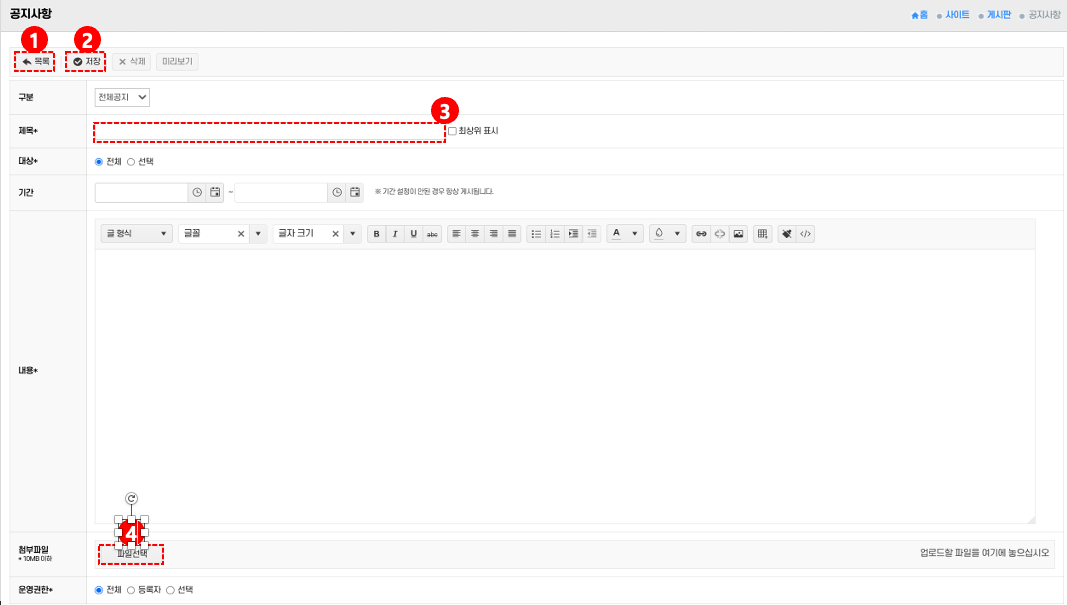
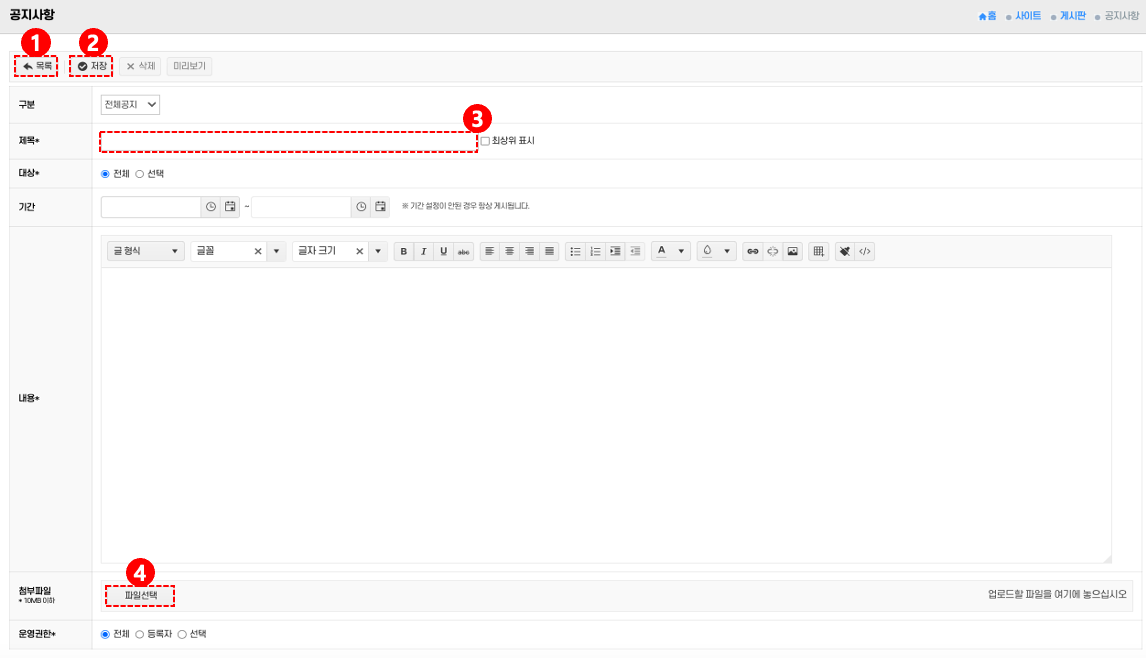
모달메뉴 테스트

diff --git a/content/3.사이트.md b/content/3.사이트.md
@@ -6,96 +6,128 @@ cssclass: app-cards
 
 ---
 #### 1. 메뉴관리
-- [![](https://placehold.co/80x80)](사이트-메뉴관리.md)  
+- [![](../_etc/icons/메뉴관리.gif)](사이트-메뉴관리.md)  
   <span class="card-label">사이트</span>  
   <span class="card-desc">상단/사이드 메뉴 트리 편집</span>
 
 #### 2. 팝업
-- [![](https://placehold.co/80x80)](팝업.md)  
+- [![](../_etc/icons/자동알림.gif)](팝업.md)  
   <span class="card-label">운영</span>  
   <span class="card-desc">팝업 등록 · 기간/노출 설정</span>
 
 #### 3. 배너
-- [![](https://placehold.co/80x80)](배너.md)  
+- [![](../_etc/icons/배너.gif)](배너.md)  
   <span class="card-label">운영</span>  
   <span class="card-desc">배너 등록 · 순서/위치 관리</span>
 
 #### 4. 게시판
-- [![](https://placehold.co/80x80)](게시판-공지사항.md)  
+- [![](../_etc/icons/공지사항.png)](게시판-공지사항.md)  
   <span class="card-label">게시판</span>  
   <span class="card-desc">공지사항 관리</span>
 
-- [![](https://placehold.co/80x80)](게시판-자료실.md)  
+- [![](../_etc/icons/자료실.gif)](게시판-자료실.md)  
   <span class="card-label">게시판</span>  
   <span class="card-desc">자료실(파일 업로드)</span>
 
-- [![](https://placehold.co/80x80)](게시판-질문하기.md)  
+- [![](../_etc/icons/질문하기.gif)](게시판-질문하기.md)  
   <span class="card-label">게시판</span>  
   <span class="card-desc">Q&A 문의 관리</span>
 
-- [![](https://placehold.co/80x80)](게시판-FAQ.md)  
+- [![](../_etc/icons/FAQ.gif)](게시판-FAQ.md)  
   <span class="card-label">게시판</span>  
   <span class="card-desc">FAQ 등록/정렬</span>
 
-- [![](https://placehold.co/80x80)](게시판-퍼블리싱.md)  
+- [![](../_etc/icons/썸네일.gif)](게시판-퍼블리싱.md)  
   <span class="card-label">게시판</span>  
   <span class="card-desc">게시판 스킨/퍼블리싱</span>
 
 #### 5. 템플릿
-- [![](https://placehold.co/80x80)](템플릿-수료증.md)  
+- [![](../_etc/icons/수료증.gif)](템플릿-수료증.md)  
   <span class="card-label">템플릿</span>  
   <span class="card-desc">수료증 양식 관리</span>
 
-- [![](https://placehold.co/80x80)](템플릿-썸네일.md)  
+- [![](../_etc/icons/썸네일.gif)](템플릿-썸네일.md)  
   <span class="card-label">템플릿</span>  
   <span class="card-desc">강좌 썸네일 세트</span>
 
-- [![](https://placehold.co/80x80)](템플릿-자동알림.md)  
+- [![](../_etc/icons/자동알림.gif)](템플릿-자동알림.md)  
   <span class="card-label">템플릿</span>  
   <span class="card-desc">자동알림 메시지</span>
 
-- [![](https://placehold.co/80x80)](템플릿-수강신청서.md)  
+- [![](../_etc/icons/메뉴관리.gif)](템플릿-수강신청서.md)  
   <span class="card-label">템플릿</span>  
   <span class="card-desc">수강신청서 양식</span>
 
 #### 6. 메인화면 표시
-- [![](https://placehold.co/80x80)](메인화면표시-표시과정.md)  
+- [![](../_etc/icons/메뉴관리.gif)](메인화면표시-표시과정.md)  
   <span class="card-label">메인</span>  
   <span class="card-desc">표시 과정 자동 구성</span>
 
-- [![](https://placehold.co/80x80)](메인화면표시-직접설정.md)  
+- [![](../_etc/icons/메뉴관리.gif)](메인화면표시-직접설정.md)  
   <span class="card-label">메인</span>  
   <span class="card-desc">직접 노출 항목 설정</span>
 
 #### 7. 분석
-- [![](https://placehold.co/80x80)](분석-대시보드.md)  
+- [![](../_etc/icons/메뉴관리.gif)](분석-대시보드.md)  
   <span class="card-label">분석</span>  
   <span class="card-desc">요약 대시보드</span>
 
-- [![](https://placehold.co/80x80)](분석-페이지뷰.md)  
+- [![](../_etc/icons/메뉴관리.gif)](분석-페이지뷰.md)  
   <span class="card-label">분석</span>  
   <span class="card-desc">페이지뷰 통계</span>
 
-- [![](https://placehold.co/80x80)](분석-세션.md)  
+- [![](../_etc/icons/메뉴관리.gif)](분석-세션.md)  
   <span class="card-label">분석</span>  
   <span class="card-desc">세션/체류 분석</span>
 
-- [![](https://placehold.co/80x80)](분석-방문.md)  
+- [![](../_etc/icons/메뉴관리.gif)](분석-방문.md)  
   <span class="card-label">분석</span>  
   <span class="card-desc">방문 수</span>
 
-- [![](https://placehold.co/80x80)](분석-순방문.md)  
+- [![](../_etc/icons/메뉴관리.gif)](분석-순방문.md)  
   <span class="card-label">분석</span>  
   <span class="card-desc">순방문(Unique)</span>
 
-- [![](https://placehold.co/80x80)](분석-노출.md)  
+- [![](../_etc/icons/메뉴관리.gif)](분석-노출.md)  
   <span class="card-label">분석</span>  
   <span class="card-desc">노출/클릭</span>
 
-- [![](https://placehold.co/80x80)](분석-추적.md)  
+- [![](../_etc/icons/메뉴관리.gif)](분석-추적.md)  
   <span class="card-label">분석</span>  
   <span class="card-desc">이벤트 추적</span>
 
-- [![](https://placehold.co/80x80)](분석-회원.md)  
+- [![](../_etc/icons/메뉴관리.gif)](분석-회원.md)  
   <span class="card-label">분석</span>  
   <span class="card-desc">회원 지표</span>
+
+---
+
+#### 8. 회원
+- [![](../_etc/icons/메뉴관리.gif)](회원-일반과정.md)  
+  <span class="card-label">회원</span>  
+  <span class="card-desc">일반 과정 찾기</span>
+
+- [![](../_etc/icons/메뉴관리.gif)](회원-교육안내.md)  
+  <span class="card-label">회원</span>  
+  <span class="card-desc">교육 안내/뉴스</span>
+
+- [![](../_etc/icons/메뉴관리.gif)](회원-연간일정.md)  
+  <span class="card-label">회원</span>  
+  <span class="card-desc">연간 과정 일정</span>
+
+- [![](../_etc/icons/메뉴관리.gif)](회원-과제제출.md)  
+  <span class="card-label">회원</span>  
+  <span class="card-desc">과제 제출</span>
+
+- [![](../_etc/icons/질문하기.gif)](회원-1대1문의.md)  
+  <span class="card-label">회원</span>  
+  <span class="card-desc">1:1 문의</span>
+
+- [![](../_etc/icons/FAQ.gif)](회원-faq.md)  
+  <span class="card-label">회원</span>  
+  <span class="card-desc">FAQ</span>
+
+- [![](../_etc/icons/수료증.gif)](회원-수료증출력.md)  
+  <span class="card-label">회원</span>  
+  <span class="card-desc">수료증 출력</span>
+

diff --git a/content/아이콘 버전 테스트 진행.md b/content/아이콘 버전 테스트 진행.md
@@ -1,0 +1,28 @@
+#### 회원 메뉴
+- [![](icons/search.svg)](일반과정.md)  
+  <span class="card-label">회원</span>  
+  <span class="card-desc">일반 과정 찾기</span>
+
+- [![](icons/newspaper.svg)](교육안내.md)  
+  <span class="card-label">회원</span>  
+  <span class="card-desc">교육 안내/뉴스</span>
+
+- [![](icons/calendar.svg)](연간일정.md)  
+  <span class="card-label">회원</span>  
+  <span class="card-desc">연간 과정 일정</span>
+
+- [![](icons/upload.svg)](과제제출.md)  
+  <span class="card-label">회원</span>  
+  <span class="card-desc">과제 제출</span>
+
+- [![](icons/message-circle.svg)](1대1문의.md)  
+  <span class="card-label">회원</span>  
+  <span class="card-desc">1:1 문의</span>
+
+- [![](icons/help-circle.svg)](faq.md)  
+  <span class="card-label">회원</span>  
+  <span class="card-desc">FAQ</span>
+
+- [![](icons/award.svg)](수료증출력.md)  
+  <span class="card-label">회원</span>  
+  <span class="card-desc">수료증 출력</span>

diff --git a/content/_etc/마이크로러닝직접-추가.md b/content/_etc/마이크로러닝직접-추가.md
@@ -1,0 +1,24 @@
+![[추천-과정추가.png]]
+
+---
+
+> [!note]- 기능설명
+> #### 1. 추가 버튼  
+> - 새로운 과정을 등록할 때 사용하는 버튼입니다.  
+>
+> #### 2. 검색/필터  
+> - 과정명, 신청일, 학습일 등 조건으로 과정을 검색하거나 정렬할 수 있습니다.  
+>
+> #### 3. 체크박스 선택  
+> - 원하는 과정을 선택할 때 사용하는 체크박스입니다.  
+> - 여러 개를 동시에 선택하여 일괄 처리(삭제, 등록 등)할 수 있습니다.  
+
+---
+
+> [!tip]- 사용방법
+> 1. **추가 버튼 클릭** → 새 과정을 등록합니다.  
+> 2. **검색창/필터** → 원하는 과정명을 입력하거나 조건을 지정하여 검색합니다.  
+> 3. **체크박스 선택** → 등록된 과정 중 필요한 항목을 체크합니다.  
+> 4. 선택한 과정은 삭제·수정 등 일괄 관리할 수 있습니다.  
+
+---

diff --git a/content/_etc/공지사항-신규등록.md b/content/_etc/공지사항-신규등록.md
@@ -3,17 +3,17 @@
 ---
 
 > [!note]- 기능설명
-> #### 1번: 등록 버튼  
-> - 입력한 공지사항을 새로 등록합니다.  
+> #### 1. 목록 
+> - 공지사항 목록으로 이동합니다.  
 >
-> #### 2번: 저장 버튼  
-> - 작성 중인 공지사항을 저장합니다. (임시 저장 개념)  
+> #### 2. 저장   
+> - 작성 중인 공지사항을 저장합니다. 
 >
-> #### 3번: 제목 입력  
+> #### 3. 제목 입력
 > - 공지사항 제목을 입력하는 필드입니다.  
 > - 우측의 체크박스를 선택하면 **최상위 표시** 기능으로 항상 상단에 노출됩니다.  
 >
-> #### 4번: 첨부파일 업로드  
+> #### 4. 첨부파일 업로드  
 > - 공지사항에 첨부할 파일을 업로드할 수 있습니다.  
 > - 1개 파일 최대 용량은 10MB입니다.  
 

diff --git a/content/_etc/게시판-자료실.md b/content/_etc/게시판-자료실.md
@@ -6,7 +6,7 @@
 > #### 1. [신규등록](자료실-신규등록.md)  
 > 새로운 자료를 업로드할 수 있는 등록 화면으로 이동합니다.
 >
-> #### 2. 엑셀  
+> #### 2. [엑셀](엑셀.md)  
 > 현재 자료실 목록을 엑셀 파일로 다운로드합니다.
 >
 > #### 3. 삭제  

diff --git a/content/_etc/직접설정-필수.md b/content/_etc/직접설정-필수.md
@@ -1,9 +1,9 @@
-![[직접설정-필수.png]]
+  ![[직접설정-필수.png]]
 
 ---
 
 > [!note]- 기능 설명
-> #### 1. [과정추가](추천-과정추가.md)  
+> #### 1. [과정추가](직접설정-과정추가.md)  
 > 새로운 과정을 추가합니다.  
 >
 > #### 2. [엑셀](엑셀.md)  

diff --git a/content/_etc/메인화면표시-마이크로러닝직접표시.md b/content/_etc/메인화면표시-마이크로러닝직접표시.md
@@ -3,7 +3,7 @@
 ---
 
 > [!note]- 기능 설명
-> #### 1. [항목 추가](마이크로러닝직접)  
+> #### 1. [과정추가](마이크로러닝직접-추가.md)  
 > - 새로운 마이크로러닝 항목을 직접 등록할 수 있습니다.  
 >
 > #### 2. 일괄 적용  

diff --git a/content/_etc/마이크로러닝표시항목-추가.md b/content/_etc/마이크로러닝표시항목-추가.md
@@ -14,7 +14,7 @@
 > #### 3. 노출수  
 > - 한 화면에 표시할 항목의 개수를 설정합니다.  
 >
-> #### 4. 추가 버튼  
+> #### 4. 추가   
 > - 입력한 설정값을 적용하여 새로운 항목을 등록합니다.  
 
 ---

diff --git a/content/_etc/메인화면표시-직접설정.md b/content/_etc/메인화면표시-직접설정.md
@@ -3,7 +3,7 @@
 ---
 
 > [!note]- 기능 설명 
-> #### 1. [과정추가](추천-과정추가.md)  
+> #### 1. [과정추가](직접설정-과정추가.md)  
 > 새로운 추천 과정을 등록합니다.  
 >
 > #### 2. [엑셀](엑셀.md)  

diff --git a/content/7.주문결제.md b/content/7.주문결제.md
@@ -1,5 +1,5 @@
 ---
-title: 5.주문결제
+title: 7.주문결제
 cssclass: card-menu
 ---
 <!-- 5. 주문결제 -->
